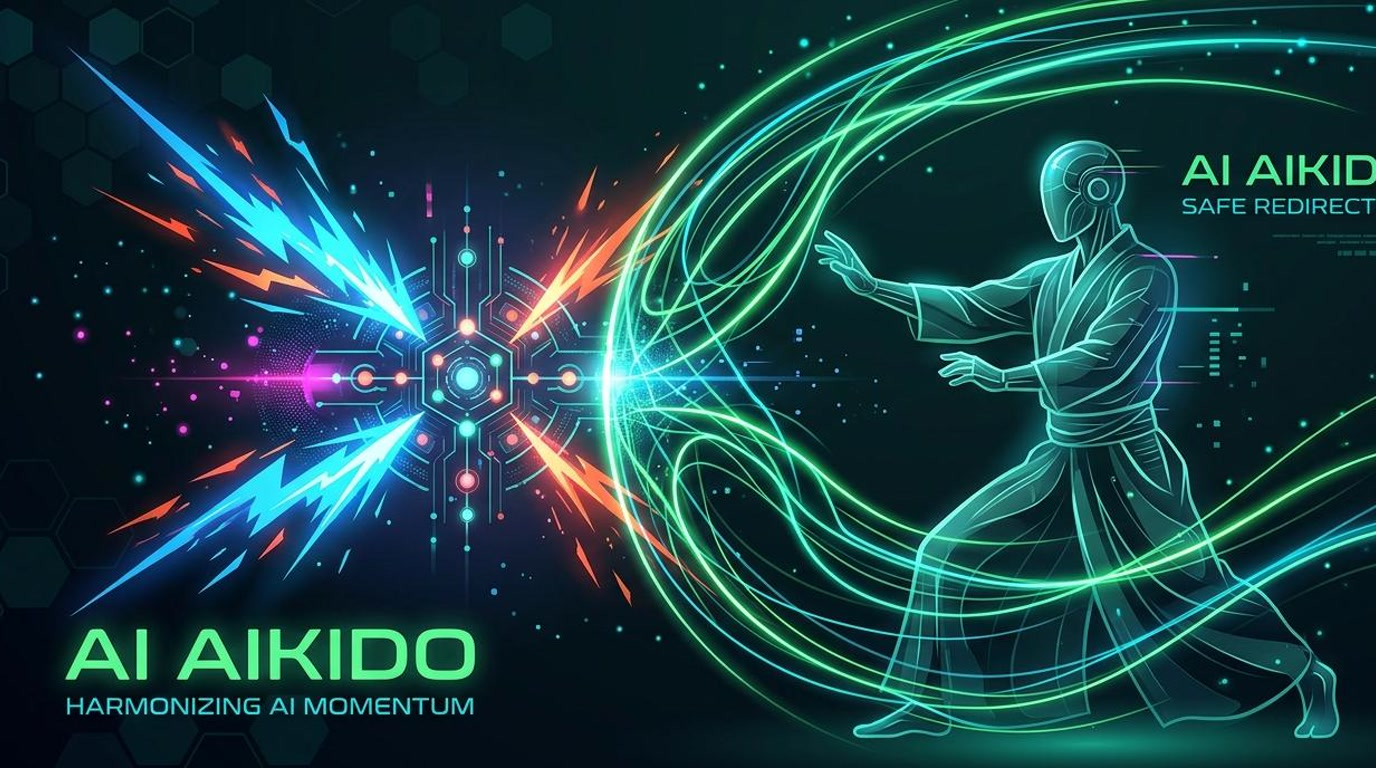
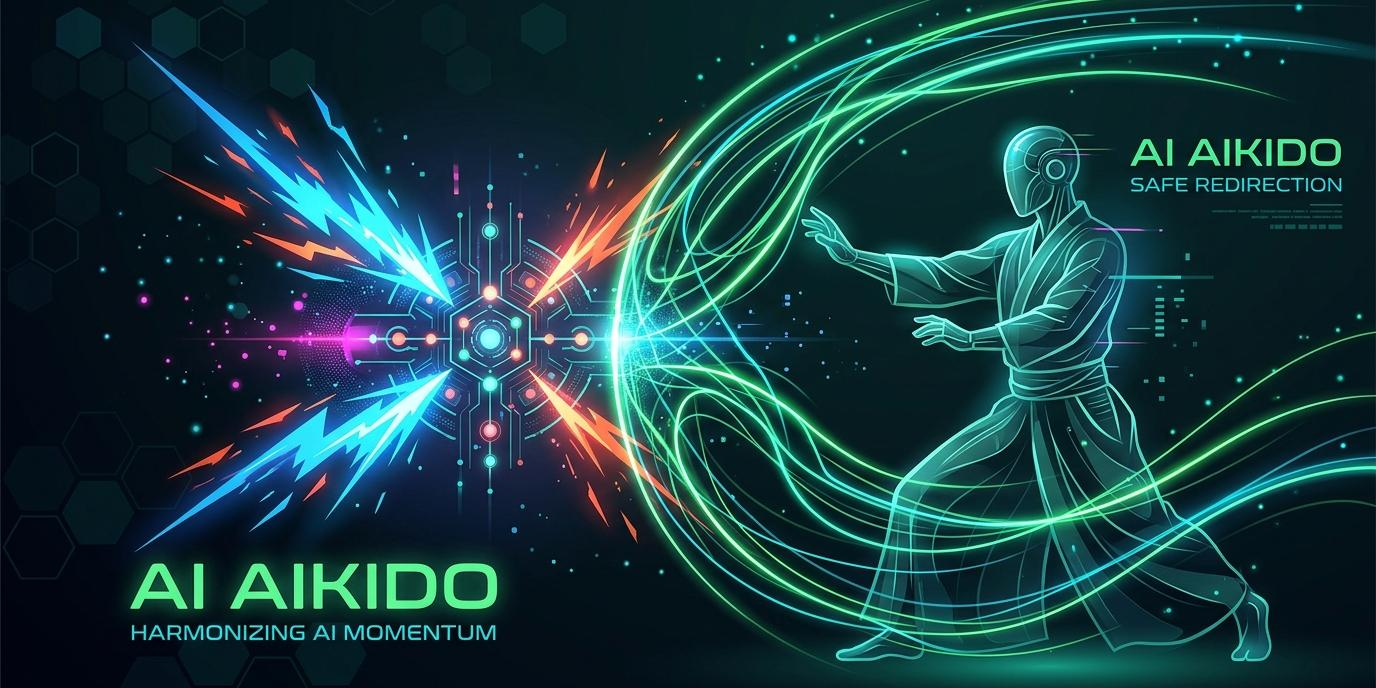
fix: update heroImage references to use placeholder images in blog posts

diff --git a/blog/src/content/blog/ai-aikido.md b/blog/src/content/blog/ai-aikido.md
@@ -2,7 +2,7 @@
 title: 'AI Aikido: Neutralizing Prompt Injection with Determinism'
 description: "How to use an attacker's own momentum against them by replacing LLM filters with deterministic tables."
 pubDate: 'Jun 18 2026'
-heroImage: '../../assets/ai-aikido.jpg'
+heroImage: '../../assets/blog-placeholder-2.jpg'
 ---
 
 Prompt injection is the defining vulnerability of the LLM era. The traditional defense mechanism adopted by most enterprises is to place another LLM in front of the execution layer to ask: *"Is this prompt malicious?"*

diff --git a/blog/src/content/blog/running-claude-safely.md b/blog/src/content/blog/running-claude-safely.md
@@ -2,7 +2,7 @@
 title: 'Running Claude Code Safely: A Sandbox Setup Guide'
 description: 'A practical guide to wrapping existing CLI agents with deterministic physics.'
 pubDate: 'Jun 16 2026'
-heroImage: '../../assets/running-claude-safely.jpg'
+heroImage: '../../assets/blog-placeholder-4.jpg'
 ---
 
 Claude Code, Aider, and Codex are incredible developer tools. They can refactor entire codebases, write tests, and debug complex race conditions. But out of the box, they run with **Ambient Authority**. They inherit your SSH keys, your production AWS credentials, and root-level write access to your hard drive. 

diff --git a/blog/src/content/blog/the-zombieagent-threat.md b/blog/src/content/blog/the-zombieagent-threat.md
@@ -2,7 +2,7 @@
 title: "The ZombieAgent Threat: Why Your AI's Memory is a Ticking Time Bomb"
 description: "Exploring cross-session taint tracking and why wiping the context window isn't enough to secure an agent."
 pubDate: 'Jun 17 2026'
-heroImage: '../../assets/zombieagent-threat.jpg'
+heroImage: '../../assets/blog-placeholder-3.jpg'
 ---
 
 When a local AI agent reads a poisoned web page, that data enters its context window. Most developers assume that once the session ends and the context window is cleared, the threat is gone. "We start fresh every time," the logic goes.

diff --git a/blog/src/content/blog/why-deny-is-dangerous.md b/blog/src/content/blog/why-deny-is-dangerous.md
@@ -2,7 +2,7 @@
 title: 'Why "Deny" is Dangerous: The Case for Absent Tools in AI'
 description: 'Exploring why blocking an AI agent is inherently less secure than making the capability entirely absent.'
 pubDate: 'Jun 19 2026'
-heroImage: '../../assets/why-deny-is-dangerous.jpg'
+heroImage: '../../assets/blog-placeholder-1.jpg'
 ---
 
 Most developers try to secure their AI agents by writing rules in a system prompt or a basic proxy layer like: `"DENY any request to drop the database."`